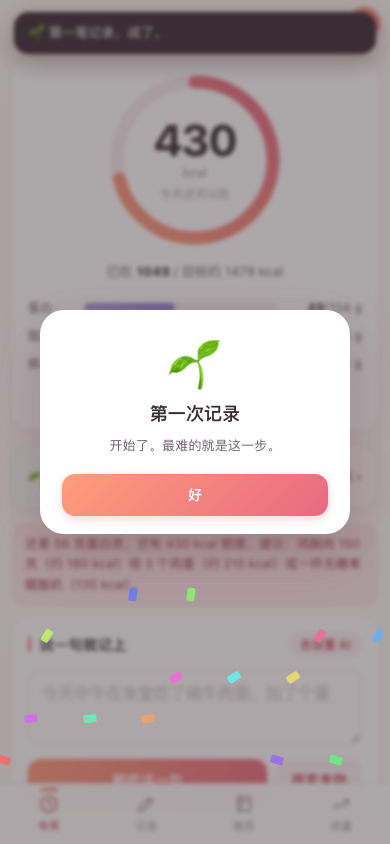
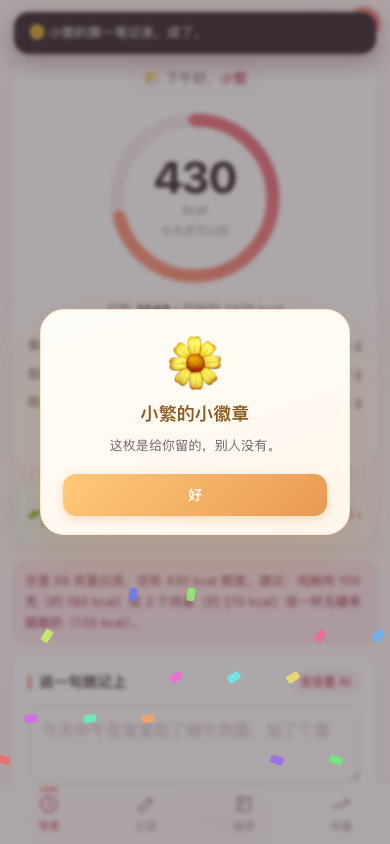
README 补充个性化说明与最新截图

diff --git a/README.md b/README.md
@@ -38,6 +38,11 @@
 | 周报把**行为放前面**，体重只作为其中一个数字 | 每天看体重会焦虑，看行为不会 |
 | 同一个徽章只庆祝一次，动画可关 | 惊喜重复三次就变成噪音 |
 
+**个性化**：默认称呼是「小繁」（她的昵称），可以在「我的资料」里改。
+按名字生效的地方：顶部昵称小签、今天页按时段的问候、记完一笔的反馈、专属徽章（「小繁的小徽章」）、
+专属里程碑（每满 10 天给一朵不同的花）、每周小结。
+名字本身没有硬编码在徽章定义里（有测试把关），所以改昵称不会改坏文案。
+
 具体有什么：小植物（6 个阶段，🌱→🌳）、16 个徽章（带进度条，差多少一眼看到）、
 每周一的小结（含一周格子图）、解锁时的彩条庆祝 + 一句具体的肯定
 （是「吃够蛋白是减脂期最值钱的一件事」这种，不是「加油你最棒」）。
